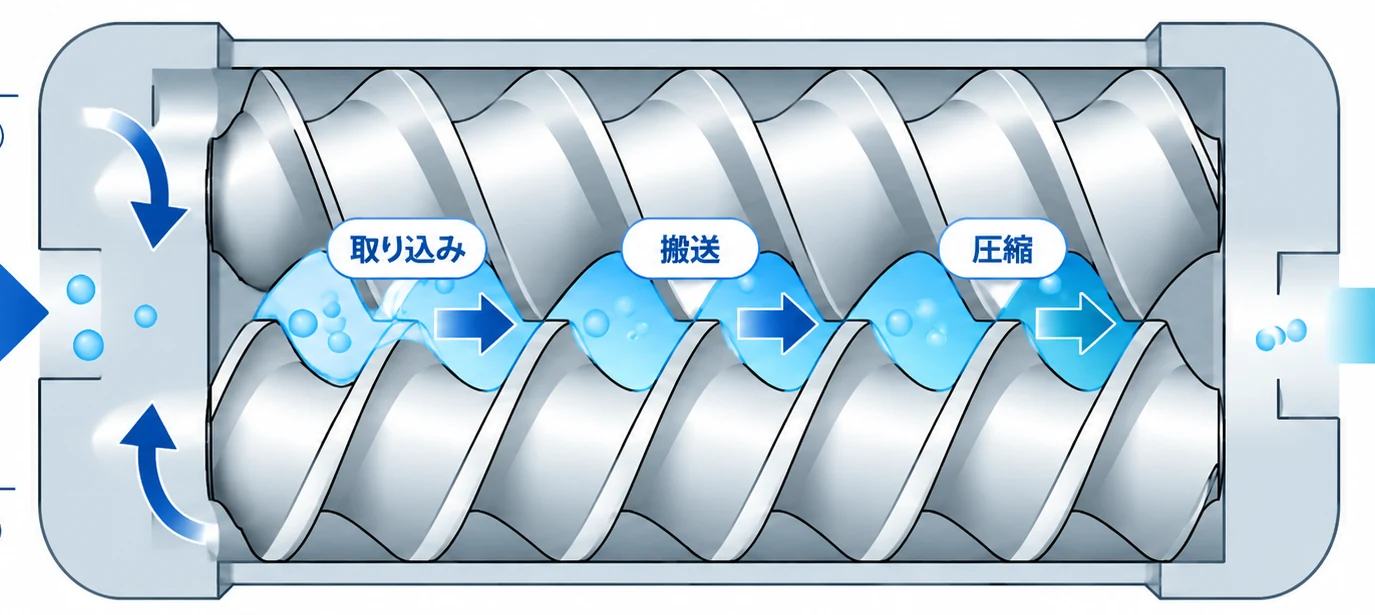
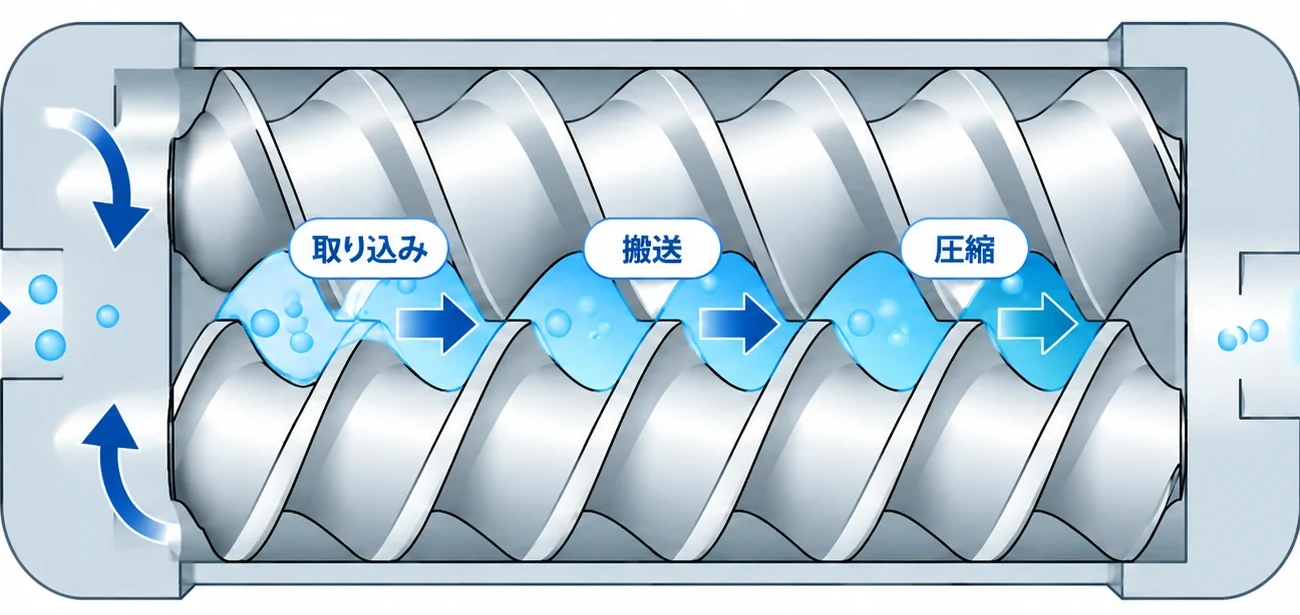
MonoBase_Ver0.7.43_Vacuum03-07_Integrated_Rev25_STEP2_TextPolish

diff --git a/app/learning_vacuum_03.html b/app/learning_vacuum_03.html
@@ -1,4 +1,4 @@
-<!doctype html><html lang="ja"><head><meta charset="utf-8"><meta name="viewport" content="width=device-width,initial-scale=1"><title>03. 真空ポンプにはどんな種類がある？ | MonoBase Technical Learning</title><link rel="stylesheet" href="css/learning.css"><link rel="stylesheet" href="css/vacuum-course.css?v=23"><link rel="stylesheet" href="css/vacuum01-comic.css?v=10"></head><body class="vc-page"><a class="vc-skip" href="#lesson">本文へ移動</a><div class="course-switch-wrap"><nav class="course-switch" aria-label="技術学習コース切替"><span class="course-switch-label">学習コース</span><a class="active" aria-current="page" href="learning_vacuum.html">真空技術</a><a href="learning_sputtering.html">スパッタリング</a><a href="learning_thinfilm.html">薄膜技術</a></nav></div><main id="lesson"><nav class="vc-progress" aria-label="真空技術入門 全7ページ"><a href="learning_vacuum_01.html">01<span class="vc-sr"> 真空ってなに？</span></a><a href="learning_vacuum_02.html">02<span class="vc-sr"> どうやって真空をつくるの？</span></a><a href="learning_vacuum_03.html" aria-current="page">03<span class="vc-sr"> 真空ポンプにはどんな種類がある？</span></a><a href="learning_vacuum_04.html">04<span class="vc-sr"> 真空はどうやって測る？</span></a><a href="learning_vacuum_05.html">05<span class="vc-sr"> 真空がうまく作れないのはなぜ？</span></a><a href="learning_vacuum_06.html">06<span class="vc-sr"> 真空はどこで使われている？</span></a><a href="learning_vacuum_quiz.html">07<span class="vc-sr"> 理解度チェック</span></a></nav><div class="hero vc-hero"><div class="vc-ey">VACUUM TECHNOLOGY / 03</div><h1>真空ポンプにはどんな種類がある？</h1><p>02では、ポンプを組み合わせて真空をつくりました。では、ポンプによって何が違うのでしょう？</p></div><div class="vacuum-comic v03-opening-comic" role="group" aria-label="真空ポンプにはどんな種類がある？ 3人の会話">
+<!doctype html><html lang="ja"><head><meta charset="utf-8"><meta name="viewport" content="width=device-width,initial-scale=1"><title>03. 真空ポンプにはどんな種類がある？ | MonoBase Technical Learning</title><link rel="stylesheet" href="css/learning.css"><link rel="stylesheet" href="css/vacuum-course.css?v=25"><link rel="stylesheet" href="css/vacuum01-comic.css?v=10"></head><body class="vc-page"><a class="vc-skip" href="#lesson">本文へ移動</a><div class="course-switch-wrap"><nav class="course-switch" aria-label="技術学習コース切替"><span class="course-switch-label">学習コース</span><a class="active" aria-current="page" href="learning_vacuum.html">真空技術</a><a href="learning_sputtering.html">スパッタリング</a><a href="learning_thinfilm.html">薄膜技術</a></nav></div><main id="lesson"><nav class="vc-progress" aria-label="真空技術入門 全7ページ"><a href="learning_vacuum_01.html">01<span class="vc-sr"> 真空ってなに？</span></a><a href="learning_vacuum_02.html">02<span class="vc-sr"> どうやって真空をつくるの？</span></a><a href="learning_vacuum_03.html" aria-current="page">03<span class="vc-sr"> 真空ポンプにはどんな種類がある？</span></a><a href="learning_vacuum_04.html">04<span class="vc-sr"> 真空はどうやって測る？</span></a><a href="learning_vacuum_05.html">05<span class="vc-sr"> 真空がうまく作れないのはなぜ？</span></a><a href="learning_vacuum_06.html">06<span class="vc-sr"> 真空はどこで使われている？</span></a><a href="learning_vacuum_quiz.html">07<span class="vc-sr"> 理解度チェック</span></a></nav><div class="hero vc-hero"><div class="vc-ey">VACUUM TECHNOLOGY / 03</div><h1>真空ポンプにはどんな種類がある？</h1><p>02では、ポンプを組み合わせて真空をつくりました。では、ポンプによって何が違うのでしょう？</p></div><div class="vacuum-comic v03-opening-comic" role="group" aria-label="真空ポンプにはどんな種類がある？ 3人の会話">
   <article class="vacuum-comic__scene" aria-labelledby="v03-comic-aoi-name">
     <div class="vacuum-comic__portrait">
       <img src="images/learning/characters/course/v03_intro_aoi.jpg" alt="疑問を持つ葵" width="798" height="1344" decoding="async">
@@ -48,7 +48,7 @@
   </div>
   <figcaption>気体が外へ移動していく基本イメージ</figcaption>
 </figure><p class="vc-note">※実際の気体の運び方は、ポンプの種類によって異なります。</p><p>では、実際のポンプを見てみましょう。</p></section><section class="vc-section" id="step-2"><div class="vc-ey">STEP 2</div><h2>気体の通り道に油を使わない：ドライポンプ</h2>
-<p>ドライポンプは、気体を圧縮する部分に油を使わないポンプです。方式はいくつかありますが、ここでは代表例としてスクリュー式を見てみましょう。</p>
+<p>真空ポンプにはさまざまな方式があり、油を使うものと、気体を圧縮する部分に油を使わないものがあります。ここでは、ドライポンプの代表例としてスクリュー式を見てみましょう。</p>
 <p>スクリュー式では、2本のねじ形ローターが回転し、気体を閉じ込めながら出口側へ運びます。</p>
 <figure class="vc-screw-figure vc-screw-photo-figure">
   <div class="vc-screw-mobile-direction" aria-hidden="true"><span>吸気側</span><b>→</b><span>排気側</span></div>
@@ -58,11 +58,11 @@
   </picture>
   <figcaption>2本のねじ形ローターが反対方向に回転し、気体を閉じ込めながら排気側へ運ぶイメージ</figcaption>
 </figure>
-<div class="vc-screw-steps" aria-label="スクリュー式ドライポンプの流れ"><span>① 気体を取り込む</span><span>② 閉じ込めながら出口側へ運ぶ</span><span>③ 圧縮して排出する</span></div>
+<div class="vc-screw-steps" aria-label="スクリュー式ドライポンプの流れ"><span>① 気体を取り込む</span><span>② 閉じ込めながら出口側へ運ぶ</span><span>③ 気体を圧縮して排出する</span></div>
 <p class="vc-note vc-screw-note">※実際の内部形状や気体の圧縮のしかたは、機種・方式によって異なります。実機の構造例はページ下部の参考資料から確認できます。</p>
 <div class="vc-dialogue"><div class="vc-talk" data-image-slot="v03-talk-04" data-character-slot="aoi-idea"><div class="vc-portrait"><img src="images/learning/characters/course/aoi-idea.webp" alt="葵" width="912" height="1536" loading="lazy" decoding="async"></div><div class="vc-talktext"><b>葵</b><p>気体を圧縮するところに油を使わないから、ドライなんだ！</p></div></div></div>
-<div class="vc-benefit"><span class="vc-point-label">POINT</span><div><strong>ドライポンプの特徴</strong><p>気体を圧縮する部分に油を使わないため、<b>油による汚染を避けやすい</b>のが特徴です。</p></div></div>
-<p class="vc-note">※ドライポンプには複数の方式があります。「ドライ」は装置全体が無潤滑という意味ではありません。</p>
+<div class="vc-benefit"><span class="vc-point-label">POINT</span><div><strong>ドライポンプの特徴</strong><p>気体と油が接触しにくいため、<b>真空容器や製品を油で汚染しにくい</b>のが特徴です。</p></div></div>
+<p class="vc-note">※ドライポンプには複数の方式があります。「ドライ」は、気体を圧縮する部分に油を使わないという意味です。軸受など、気体を圧縮する部分以外には潤滑油やグリースが使われることがあります。</p>
 <p class="vc-step-bridge">では、あえて油を使うポンプには、どんな良さがあるのでしょう？</p>
 </section><section class="vc-section" id="step-3"><div class="vc-ey">STEP 3</div><h2>油で密閉を助ける：ロータリーポンプ</h2><div class="vc-two"><figure class="vc-figure"><img src="images/learning/course/rotary.svg" alt="回転する羽根が気体を区切って運び、油がすき間の密閉を助ける" width="360" height="240" loading="lazy"><figcaption>油回転式の仕組みを単純化した図</figcaption></figure><div><p>ロータリーポンプの代表例が、ロータリーベーンポンプです。回転する羽根で気体を閉じ込め、出口側へ運んで排出します。</p><p>油は、部品のすき間をふさいで気体が戻りにくくするなど、密閉を助けています。粗引きにも使われるポンプです。</p></div></div><div class="vc-dialogue"><div class="vc-talk" data-image-slot="v03-talk-05" data-character-slot="haruto-understand"><div class="vc-portrait"><img src="images/learning/characters/course/haruto-understand.png" alt="陽斗" width="864" height="1536" loading="lazy" decoding="async"></div><div class="vc-talktext"><b>陽斗</b><p>ドライとロータリーは、どちらも気体を閉じ込めて運ぶ仲間なんだね。</p></div></div></div></section><section class="vc-section" id="step-4"><div class="vc-ey">STEP 4</div><h2>気体が少なくなったら：ターボ分子ポンプ</h2><div class="vc-two"><figure class="vc-figure"><img src="images/learning/course/turbo.svg" alt="高速の羽根が気体分子にぶつかり、出口側へ送る" width="360" height="240" loading="lazy"><figcaption>羽根による運動の受け渡しを示す概念図</figcaption></figure><div><p>気体が少なくなってきたら、高速で回る羽根で気体分子を出口側へ送ります。高真空をつくるときに使われる代表的なポンプです。</p><p>ただし、ターボ分子ポンプだけで大気圧から高真空までつくるわけではありません。ドライポンプなどと組み合わせて使います。</p></div></div><div class="vc-dialogue"><div class="vc-talk" data-image-slot="v03-talk-08" data-character-slot="aoi-question"><div class="vc-portrait"><img src="images/learning/characters/course/aoi-question.png" alt="葵" width="798" height="1344" loading="lazy" decoding="async"></div><div class="vc-talktext"><b>葵</b><p>高真空までいけるなら、最初からターボだけ使えばいいんじゃない？</p></div></div><div class="vc-talk" data-image-slot="v03-talk-09" data-character-slot="haruto-think"><div class="vc-portrait"><img src="images/learning/characters/course/haruto-think.png" alt="陽斗" width="864" height="1536" loading="lazy" decoding="async"></div><div class="vc-talktext"><b>陽斗</b><p>でも02で、ポンプには得意な圧力の範囲があるって習ったよね。</p></div></div><div class="vc-talk" data-image-slot="v03-talk-10" data-character-slot="teacher-explain"><div class="vc-portrait"><img src="images/learning/characters/course/teacher-explain.png" alt="けー子ちゃん先生" width="912" height="1536" loading="lazy" decoding="async"></div><div class="vc-talktext"><b>けー子ちゃん先生</b><p>その通りです。ターボ分子ポンプは、ある程度気体を減らしてから力を発揮するポンプなんです。</p></div></div></div><p class="vc-key">ターボ分子ポンプは、前段側のポンプと組み合わせて高真空をつくる。</p></section><section class="vc-section" id="step-5"><div class="vc-ey">STEP 5</div><h2>02の「役割分担」を装置で見てみよう</h2><ol class="vc-flow"><li>チャンバー<br><small>気体を減らしたい場所</small></li><li>ターボ分子ポンプ<br><small>少ない気体を出口側へ送る</small></li><li>ドライ／ロータリー<br><small>前段側を排気する</small></li><li>大気へ排出</li></ol><p class="vc-note">高真空で運転しているときの気体の経路の例です。始動時のバルブや粗引き経路は省略しています。</p><div class="vc-dialogue"><div class="vc-talk" data-image-slot="v03-talk-06" data-character-slot="aoi-idea"><div class="vc-portrait"><img src="images/learning/characters/course/aoi-idea.webp" alt="葵" width="912" height="1536" loading="lazy" decoding="async"></div><div class="vc-talktext"><b>葵</b><p>リレーでも、前のポンプが休むわけじゃないんだ。</p></div></div><div class="vc-talk" data-image-slot="v03-talk-07" data-character-slot="teacher-explain"><div class="vc-portrait"><img src="images/learning/characters/course/teacher-explain.png" alt="けー子ちゃん先生" width="912" height="1536" loading="lazy" decoding="async"></div><div class="vc-talktext"><b>けー子ちゃん先生</b><p>そうですね。ターボが働いている間も、前段側のポンプが排気を続けて支える構成があります。</p></div></div></div><div class="vc-grid"><article class="vc-card"><h3>大気圧付近から圧力を下げる</h3><p>ドライポンプや油回転式ロータリーポンプなどが活躍。</p></article><article class="vc-card"><h3>さらに低い圧力をつくる</h3><p>ターボ分子ポンプなどが活躍。前段側のポンプと組み合わせて使います。</p></article></div><p class="vc-note">得意な圧力範囲は機種・方式・気体・装置条件で異なります。ここでは数値を暗記する必要はありません。</p></section><section class="vc-section" id="summary"><div class="vc-ey">SUMMARY</div><h2>今日覚えるのは、この3つ</h2><div class="vc-grid"><article class="vc-card"><h3>運び方が違う</h3><p>閉じ込めて運ぶ方法と、羽根で分子を送る方法がある。</p></article><article class="vc-card"><h3>得意な範囲がある</h3><p>ポンプには、それぞれ得意な圧力範囲がある。</p></article><article class="vc-card"><h3>組み合わせて使う</h3><p>1台ですべてを担当せず、得意な範囲を組み合わせて使うことがある。</p></article></div></section><section class="vc-section vc-check" id="check"><div class="vc-ey">CHECK</div><h2>今日の1問</h2><fieldset><legend>高真空をつくるとき、ターボ分子ポンプだけを最初から使うのではなく、ドライポンプなどと組み合わせるのはなぜ？</legend><label class="vc-option"><input type="radio" name="v03-check" value="a"><span>A　ポンプの音を小さくするため</span></label><label class="vc-option"><input type="radio" name="v03-check" value="b"><span>B　ポンプにはそれぞれ得意な圧力範囲があるため</span></label><label class="vc-option"><input type="radio" name="v03-check" value="c"><span>C　ターボ分子ポンプには気体を排気する力がないため</span></label></fieldset><button type="button" id="v03-check-button">答えを確認する</button><div id="v03-feedback" class="vc-feedback" aria-live="polite" hidden></div></section><p class="vc-next-lead">次は、できた真空をどう確認するのかを見ていきましょう。</p><nav class="vacuum-end-nav" aria-label="このページの学習ナビゲーション"><a class="vacuum-next" href="learning_vacuum_04.html"><span>次のページ</span><strong>04 真空はどうやって測る？</strong><b aria-hidden="true">→</b></a><div class="vacuum-secondary"><a href="learning_vacuum_02.html">← 02へ戻る</a><a href="learning_vacuum.html">真空技術ホーム</a></div></nav><details class="vc-sources vacuum-end-sources"><summary>参考資料・図解について</summary><p>図は仕組みを理解するための概念図です。形状・粒子数・圧力範囲は実機を再現していません。</p><ul><li><a href="https://www.pfeiffer-vacuum.com/es/en/knowledge/vacuum-technology/knowledge-book/4-vacuum-generation/4_4_screw_vacuum_pumps/" target="_blank" rel="noopener noreferrer">Pfeiffer：ドライスクリューポンプ</a></li><li><a href="https://www.pfeiffer-vacuum.com/ar/en/products/vacuum-pumps/rotary-vane/rotary-vane-technology/" target="_blank" rel="noopener noreferrer">Pfeiffer：ロータリーベーンポンプ</a></li><li><a href="https://www.pfeiffer-vacuum.com/fi/en/products/vacuum-pumps/turbomolecular/turbomolecular-technology/" target="_blank" rel="noopener noreferrer">Pfeiffer：ターボ分子ポンプ</a></li></ul></details></main><footer>MonoBase Technical Learning ｜ Vacuum Technology Course</footer><script>
 (function(){
